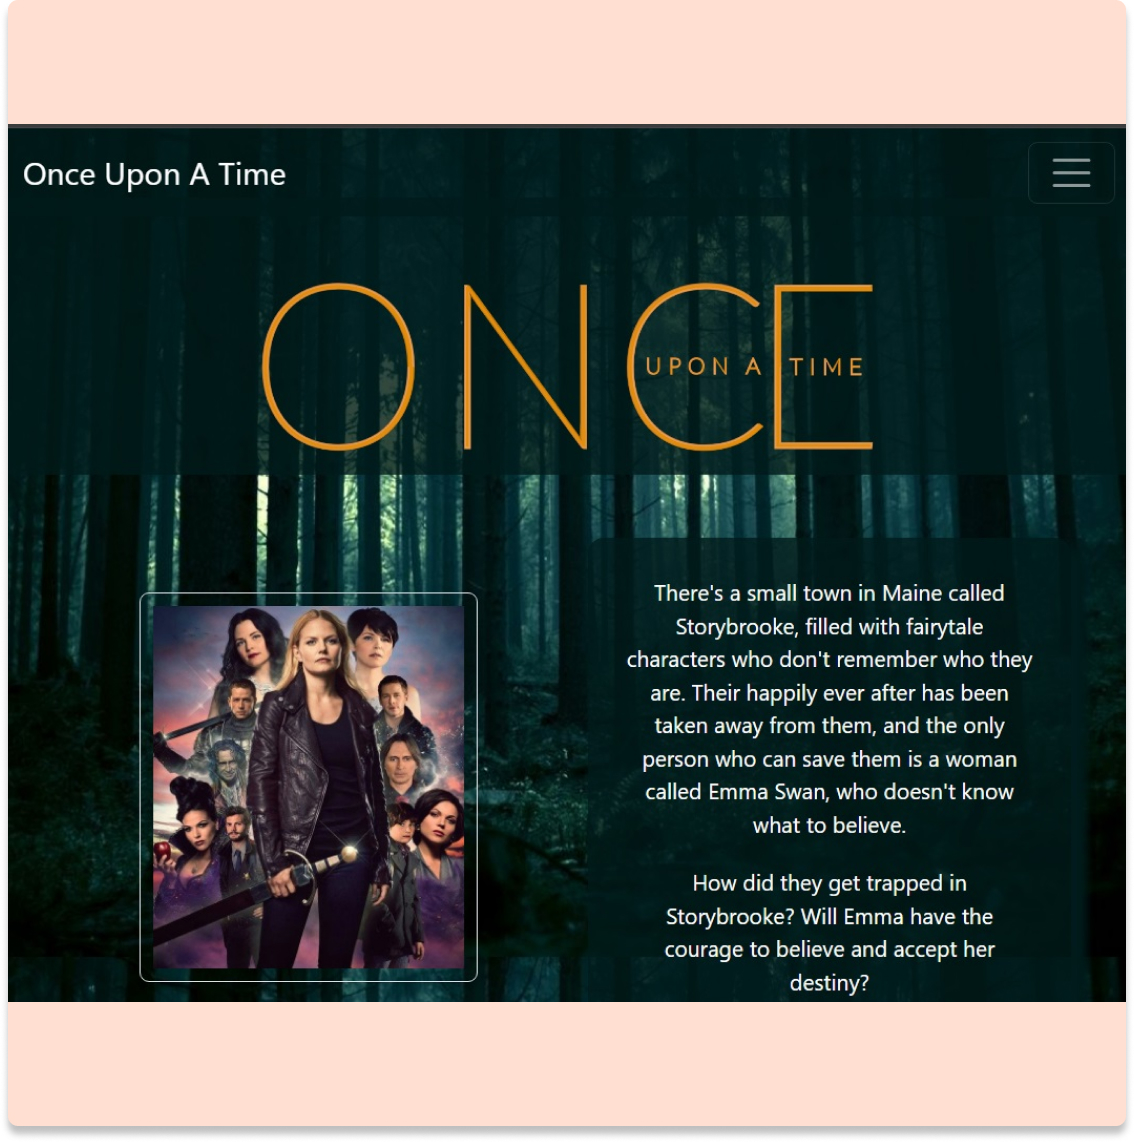
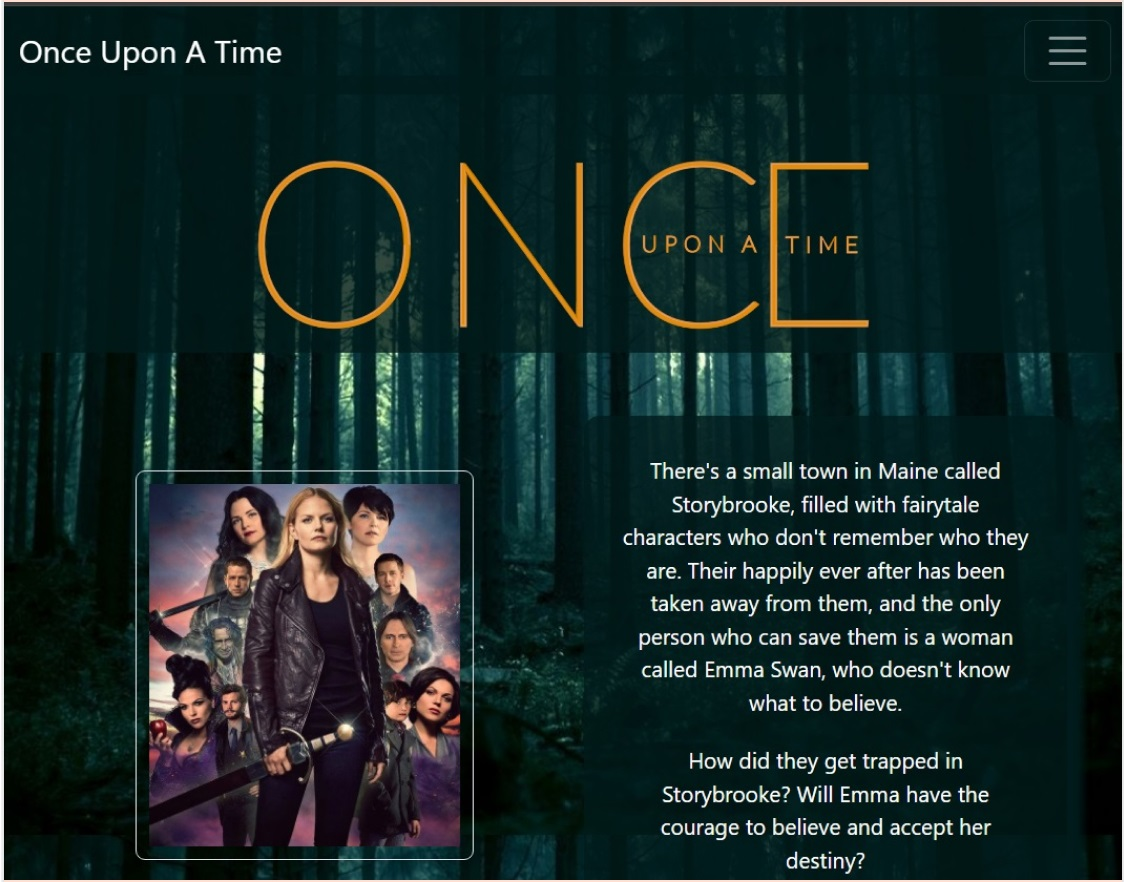
Fix images, add css to them

diff --git a/index.html b/index.html
@@ -35,10 +35,10 @@
     </div>
 
     <div class="container-fluid">
-        <p class="text-center m-5">Projects I have created</p>
+        <p class="text-center m-5">These are the projects I have created and their descriptions</p>
         <div class="row align-items-center p-4">
             <div class="col-6">
-                <img src="images/Rectangle 101.png" alt="" class="img-fluid">
+                <img src="images/macrame-webpage.png" alt="" class="img-fluid projects">
             </div>
             <div class="col-6">
                 <h2 class="mb-5">Macramé Project</h2>
@@ -47,7 +47,8 @@
                     Separated they live in Bookmarksgrove right at the coast of the Semantics, a large language ocean. A
                     small river named
                     Duden flows by</p>
-                <a href class="btn btn-branding-outline">Launch Project</a>
+                <a href="https://s3.amazonaws.com/shecodesio-production/challenge_submissions/files/001/957/806/original/FinalProject.html.html?1701168178"
+                    target="_blank" class="btn btn-branding-outline">Launch Project</a>
 
             </div>
         </div>
@@ -60,16 +61,16 @@
                     Separated they live in Bookmarksgrove right at the coast of the Semantics, a large language ocean. A
                     small river named
                     Duden flows by</p>
-                <a href class="btn btn-branding-outline">Launch Project</a>
+                <a href="https://my-weather-app-alejandrave.netlify.app/" target="_blank" class="btn btn-branding-outline">Launch Project</a>
 
             </div>
             <div class="col-6">
-                <img src="images/Rectangle 99.jpg" alt="" class="img-fluid">
+                <img src="images/weather-app.png" alt="" class="img-fluid projects">
             </div>
         </div>
         <div class="row align-items-center p-4">
             <div class="col-6">
-                <img src="images/Rectangle 102.jpg" alt="" class="img-fluid">
+                <img src="images/Rectangle 102.jpg" alt="" class="img-fluid projects">
             </div>
             <div class="col-6">
                 <h2 class="mb-5">SheCodes Challenge </h2>
@@ -79,7 +80,7 @@
                     Separated they live in Bookmarksgrove right at the coast of the Semantics, a large language ocean. A
                     small river named
                     Duden flows by</p>
-                <a href class="btn btn-branding-outline">Launch Project</a>
+                <a href="https://binge-worthy-tv-show-alejandra.netlify.app/" target="_blank" class="btn btn-branding-outline">Launch Project</a>
             </div>
         </div>
     </div>

diff --git a/style.css b/style.css
@@ -52,6 +52,11 @@
   font-weight: bold;
 }
 
+.container-fluid .projects {
+    border: 10px solid var(--primary-color);
+    border-radius: 5px;
+}
+
 .container-fluid p {
   font-family: var(--primary-font-family);
   font-size: 16px;
